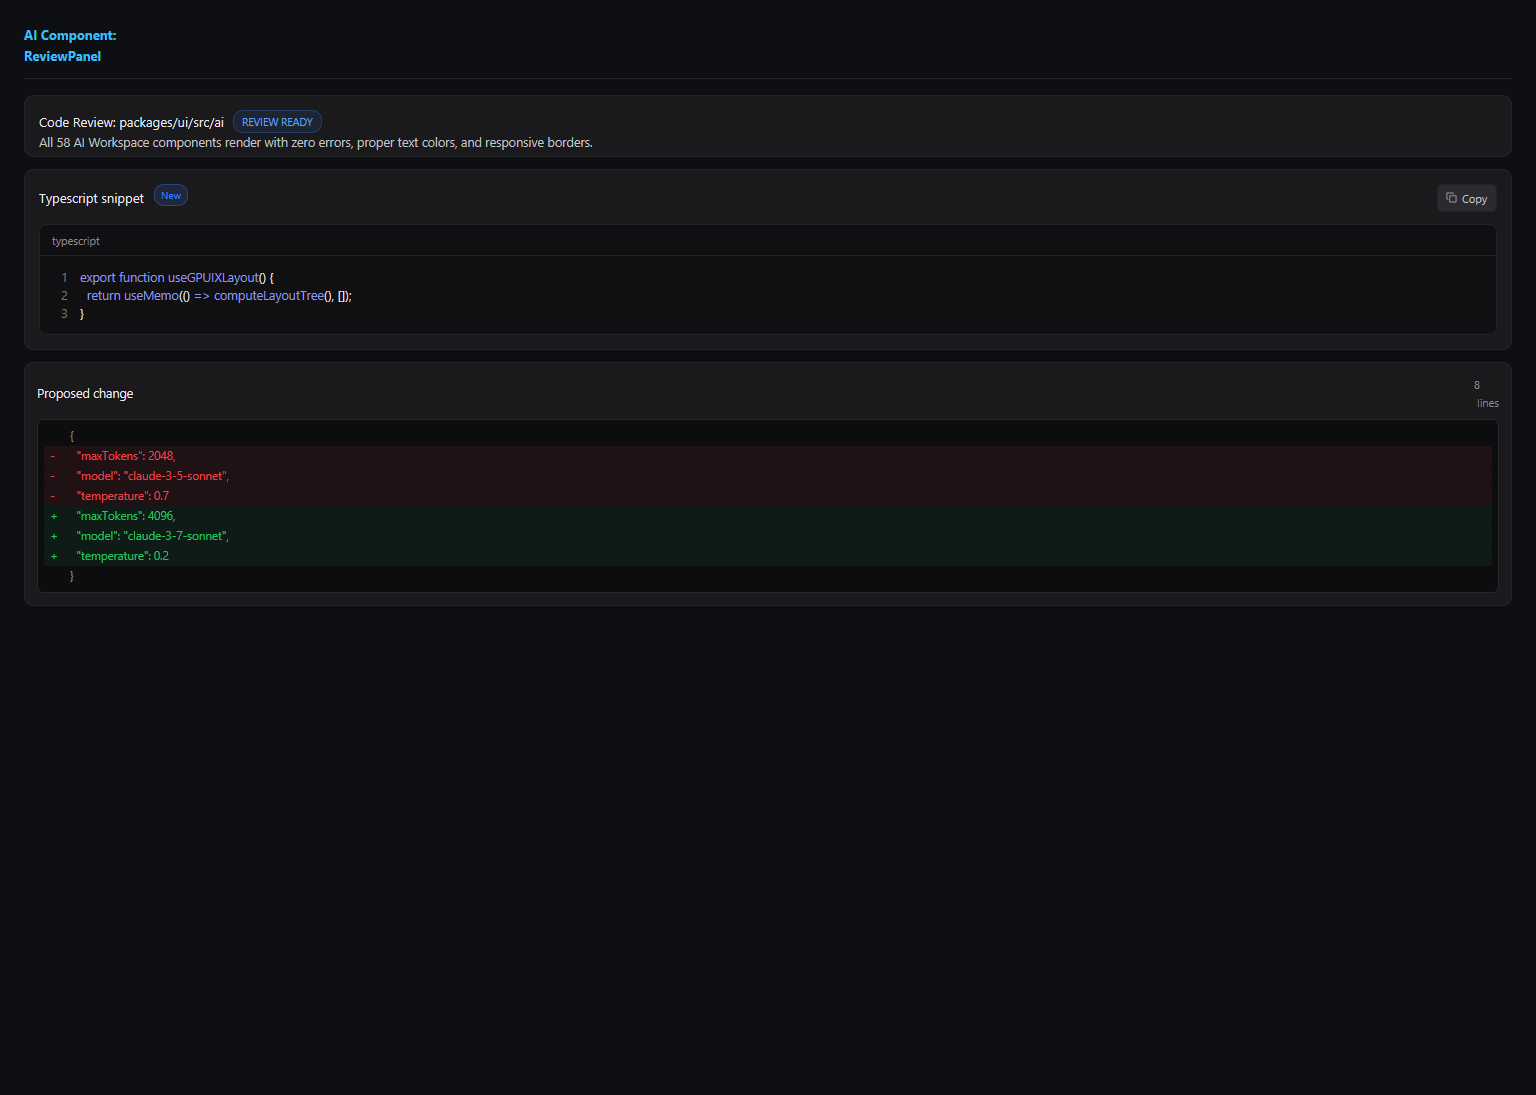
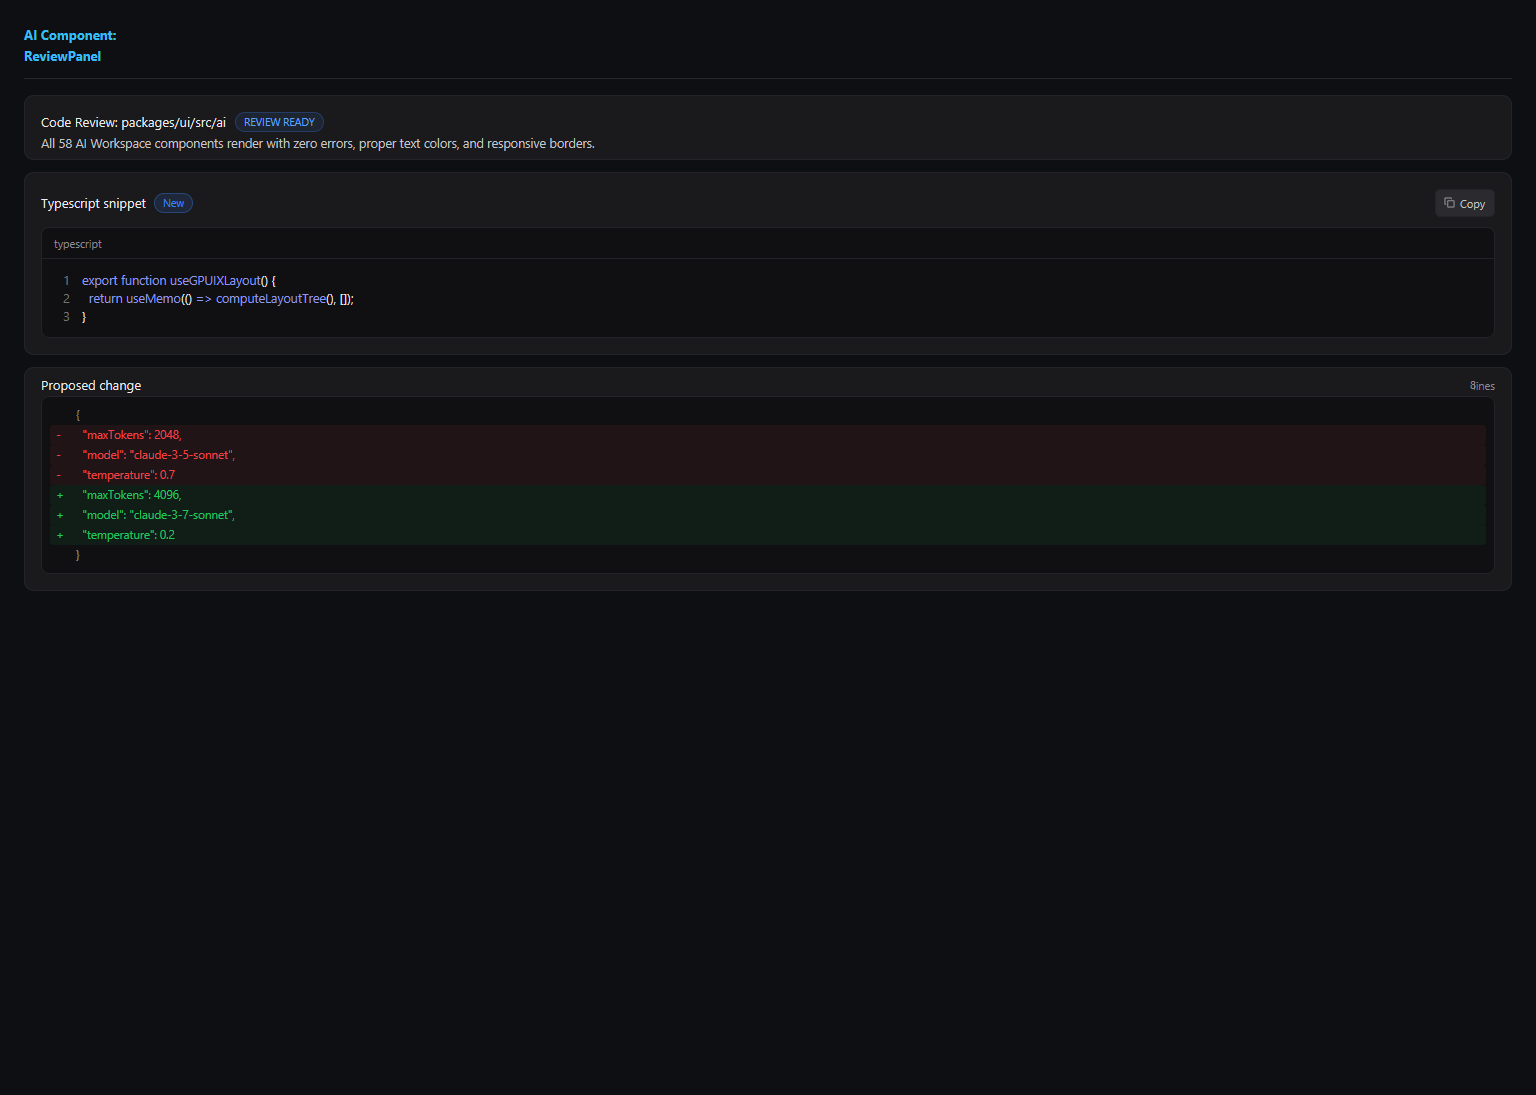
fix(ReviewPanel): middle-align badge vertically and standardize spacing across all review cards

diff --git a/packages/ui/src/ai/ConfigDiffReview.tsx b/packages/ui/src/ai/ConfigDiffReview.tsx
@@ -1,6 +1,6 @@
 /** @atlas/ui — ConfigDiffReview — review an agent's proposed config/JSON change. */
 import { border, surface, text as t } from '../tokens'
-import { FONT_MONO } from '../tokens'
+import { FONT, FONT_MONO } from '../tokens'
 import { Button } from '../atoms/Button'
 import { diffLines } from './diff'
 
@@ -22,12 +22,12 @@ export function ConfigDiffReview({ before, after, title = 'Proposed change', acc
   const prefix = { add: '+', del: '-', keep: ' ' } as const
 
   return (
-    <div style={{ display: 'flex', flexDirection: 'column', gap: 8, borderWidth: 1, borderColor: border.subtle, borderRadius: 10, padding: 12, backgroundColor: surface.card }}>
+    <div style={{ display: 'flex', flexDirection: 'column', gap: 10, padding: 16, borderRadius: 10, borderWidth: 1, borderColor: border.subtle, backgroundColor: surface.card }}>
       <div style={{ display: 'flex', flexDirection: 'row', alignItems: 'center', justifyContent: 'space-between' }}>
-        <text style={{ fontSize: 12.5, fontWeight: 600, color: t.primary, fontFamily: FONT_MONO }}>{title}</text>
-        <text style={{ fontSize: 11, color: t.muted, fontFamily: FONT_MONO }}>{lines.length} lines</text>
+        <text style={{ fontSize: 13, fontWeight: 600, color: t.primary, fontFamily: FONT, lineHeight: 1 }}>{title}</text>
+        <text style={{ fontSize: 11, color: t.muted, fontFamily: FONT, lineHeight: 1 }}>{lines.length} lines</text>
       </div>
-      <div style={{ display: 'flex', flexDirection: 'column', maxHeight: 260, overflowY: 'scroll', backgroundColor: '#0D0D10', borderRadius: 6, padding: 6, borderWidth: 1, borderColor: '#26262B' }}>
+      <div style={{ display: 'flex', flexDirection: 'column', maxHeight: 260, overflowY: 'scroll', backgroundColor: surface.code, borderRadius: 8, padding: 8, borderWidth: 1, borderColor: border.subtle }}>
         {lines.map((l, i) => (
           <div
             key={i}

diff --git a/packages/ui/src/ai/ReviewPanel.tsx b/packages/ui/src/ai/ReviewPanel.tsx
@@ -20,12 +20,12 @@ export function ReviewPanel({ title, feedback, code, language, configBefore, con
   return (
     <div style={{ display: 'flex', flexDirection: 'column', gap: 12, width: '100%' }}>
       {(title || feedback || !hasDiffs) && (
-        <div style={{ display: 'flex', flexDirection: 'column', gap: 8, padding: 14, borderRadius: 10, borderWidth: 1, borderColor: border.subtle, backgroundColor: surface.card }}>
+        <div style={{ display: 'flex', flexDirection: 'column', gap: 10, padding: 16, borderRadius: 10, borderWidth: 1, borderColor: border.subtle, backgroundColor: surface.card }}>
           <div style={{ display: 'flex', flexDirection: 'row', alignItems: 'center', justifyContent: 'space-between' }}>
             <div style={{ display: 'flex', flexDirection: 'row', alignItems: 'center', gap: 8 }}>
-              <text style={{ fontSize: 13, fontWeight: 600, color: t.primary, fontFamily: FONT }}>{title ?? 'Code Review'}</text>
-              <div style={{ backgroundColor: '#3B82F61A', borderWidth: 1, borderColor: '#3B82F640', borderRadius: 10, paddingLeft: 8, paddingRight: 8, paddingTop: 2, paddingBottom: 2 }}>
-                <text style={{ fontSize: 10.5, color: '#60A5FA', fontWeight: 600, fontFamily: FONT }}>REVIEW READY</text>
+              <text style={{ fontSize: 13, fontWeight: 600, color: t.primary, fontFamily: FONT, lineHeight: 1 }}>{title ?? 'Code Review'}</text>
+              <div style={{ display: 'flex', flexDirection: 'row', alignItems: 'center', justifyContent: 'center', backgroundColor: '#3B82F61A', borderWidth: 1, borderColor: '#3B82F640', borderRadius: 10, paddingLeft: 8, paddingRight: 8, height: 20 }}>
+                <text style={{ fontSize: 10.5, color: '#60A5FA', fontWeight: 600, fontFamily: FONT, lineHeight: 1 }}>REVIEW READY</text>
               </div>
             </div>
             {onApply || onReject ? (

diff --git a/packages/ui/src/atoms/Badge.tsx b/packages/ui/src/atoms/Badge.tsx
@@ -15,6 +15,7 @@
  *   <Badge variant="count" count={12} />
  *   <Badge variant="label" label="Snoozed" color="#8B5CF6" />
  */
+import type { StyleDesc } from '@gpuix/react'
 import { C, FONT, semantic } from '../tokens'
 
 export type BadgeVariant = 'mention' | 'unread' | 'count' | 'label'
@@ -25,9 +26,10 @@ export interface BadgeProps {
   label?: string
   /** Override pill accent color for "label" variant */
   color?: string
+  style?: StyleDesc
 }
 
-export function Badge({ variant, count = 0, label, color }: BadgeProps) {
+export function Badge({ variant, count = 0, label, color, style }: BadgeProps) {
   if (variant === 'unread') {
     return (
       <div
@@ -116,28 +118,29 @@ export function Badge({ variant, count = 0, label, color }: BadgeProps) {
     return (
       <div
         style={{
-          alignSelf: 'flex-start',
-          paddingLeft: 6,
-          paddingRight: 6,
-          paddingTop: 2,
-          paddingBottom: 2,
+          display: 'flex',
+          flexDirection: 'row',
+          alignItems: 'center',
+          justifyContent: 'center',
+          paddingLeft: 8,
+          paddingRight: 8,
+          height: 20,
           borderRadius: 10,
           backgroundColor: accent + '22',
           borderWidth: 1,
           borderColor: accent + '55',
-          display: 'flex',
-          alignItems: 'center',
-          justifyContent: 'center',
           flexShrink: 0,
+          ...style,
         }}
       >
         <text
           style={{
-            fontSize: 10,
+            fontSize: 10.5,
             fontWeight: 600,
             color: accent,
             fontFamily: FONT,
             whiteSpace: 'nowrap',
+            lineHeight: 1,
           }}
         >
           {label}

diff --git a/packages/ui/src/ai/GeneratedCodeCard.tsx b/packages/ui/src/ai/GeneratedCodeCard.tsx
@@ -28,9 +28,9 @@ const STATUS_COLOR: Record<GeneratedCodeStatus, string> = { pending: '#3B82F6', 
 export function GeneratedCodeCard({ code, language, title, status = 'pending', onApply, onCopy }: GeneratedCodeCardProps) {
   const displayTitle = title || (language ? `${language.charAt(0).toUpperCase() + language.slice(1)} snippet` : 'Generated snippet')
   return (
-    <div style={{ display: 'flex', flexDirection: 'column', gap: 12, padding: 14, borderRadius: 10, borderWidth: 1, borderColor: border.subtle, backgroundColor: surface.card }}>
-      <div style={{ display: 'flex', flexDirection: 'row', alignItems: 'center', gap: 10 }}>
-        <text style={{ fontSize: 13, fontWeight: 600, color: textTokens.primary, fontFamily: FONT }}>{displayTitle}</text>
+    <div style={{ display: 'flex', flexDirection: 'column', gap: 10, padding: 16, borderRadius: 10, borderWidth: 1, borderColor: border.subtle, backgroundColor: surface.card }}>
+      <div style={{ display: 'flex', flexDirection: 'row', alignItems: 'center', gap: 8 }}>
+        <text style={{ fontSize: 13, fontWeight: 600, color: textTokens.primary, fontFamily: FONT, lineHeight: 1 }}>{displayTitle}</text>
         <Badge variant="label" label={STATUS_LABEL[status] ?? 'New'} color={STATUS_COLOR[status] ?? '#3B82F6'} />
         <div style={{ flexGrow: 1 }} />
         {status === 'pending' && onApply ? <CopyButton value={code} onCopy={onApply} label="Apply" copiedLabel="Applied" /> : null}
